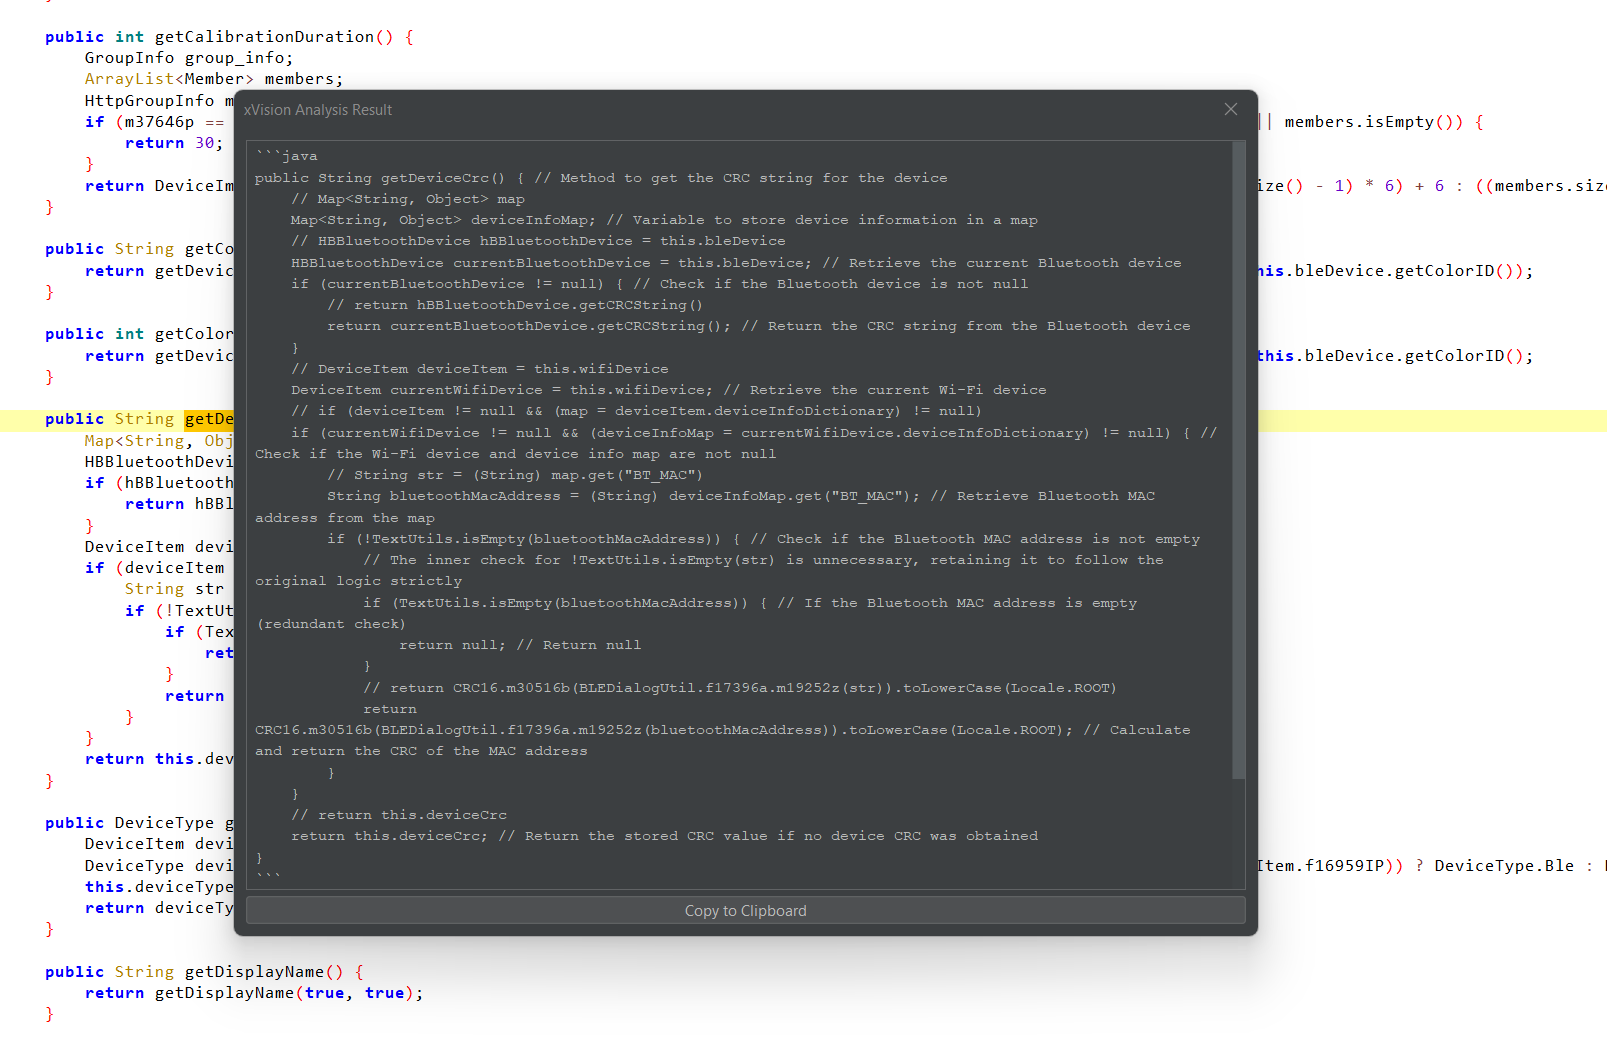
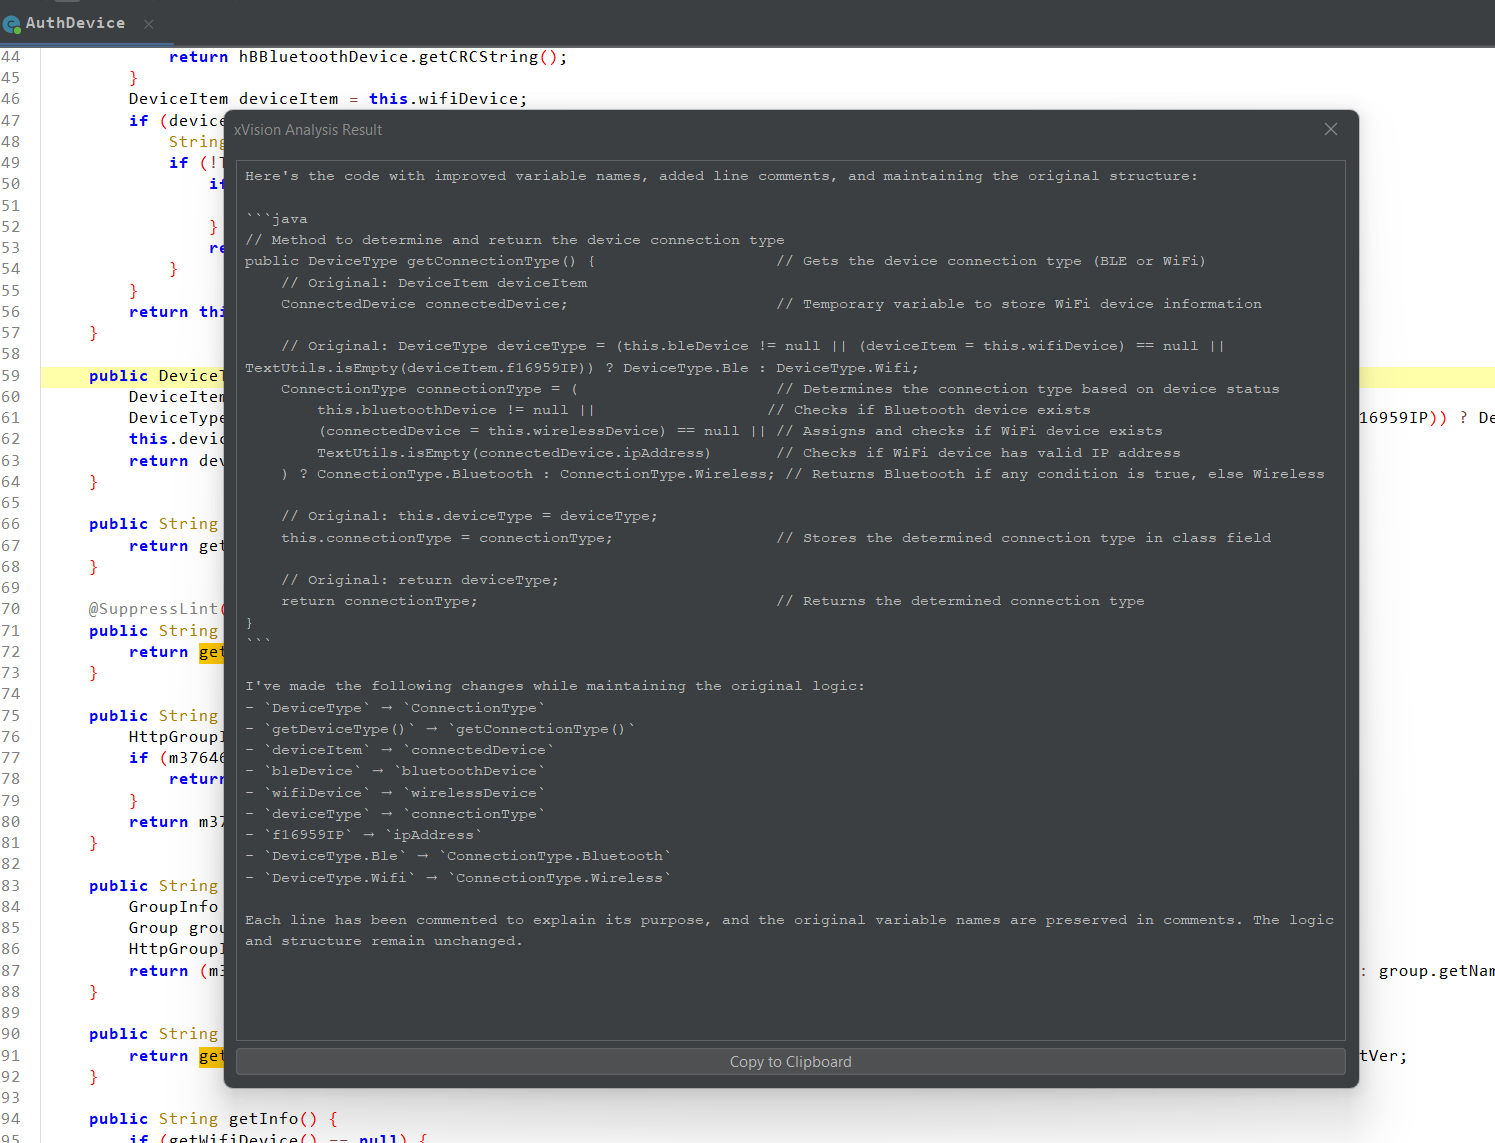
Updated README and screenshots

diff --git a/README.md b/README.md
@@ -14,8 +14,9 @@ xVision is a plugin for the [JadX](https://github.com/skylot/jadx) decompiler th
 ## Screenshots
 
 ![](screenshots/xVision_config.png "xVision Config")
-![](screenshots/xVision_Analyse_with_XVision.png "xVision Analysis Prompt")
+![](screenshots/xVision_Analyse_with_XVision.png "COntext menu optin - Analyze with xVision")
 ![](screenshots/xVision_prompt_Box.png "xVision Analysis Prompt")
+![](screenshots/xVision_Analysis_with_updated_code_rendering.png "xVision Analysis with code rendering")
 ![](screenshots/xVision_Analysis.png "xVision Analysis")
 
 ## Installation
@@ -57,8 +58,9 @@ xVision is a plugin for the [JadX](https://github.com/skylot/jadx) decompiler th
 ### JadX GUI
 
 1. **Open JadX GUI**.
-2. **Load a Java archive (JAR) file**.
-3. **Right-click on a class or method** and select **Analyze with xVision Plugin**.
+2. **Load a supported package to analyze**.
+3. **Click Menu -> 'Xvision Config'** - Select LLM to use and add **API Key**
+4. **Right-click on a class or method** and select **Analyze with xVision Plugin**.
 
 ### Configuration
 
@@ -81,7 +83,9 @@ Following configurations are available:
 
 
 ## Thanks
-- [MartinKayJr](https://github.com/skylot/jadx/issues/1884#issue-1727047157) - Default prompt.
+- [MartinKayJr](https://github.com/skylot/jadx/issues/1884#issue-1727047157) - for default prompt.
+- [Devilx86](https://github.com/Devilx86/jadx-ai-view-plugin) - LLM response Code Rendering in a new window.
+- bobbylight [RSyntaxTextArea](https://github.com/bobbylight/RSyntaxTextArea)
 
 
 ## Contributing
